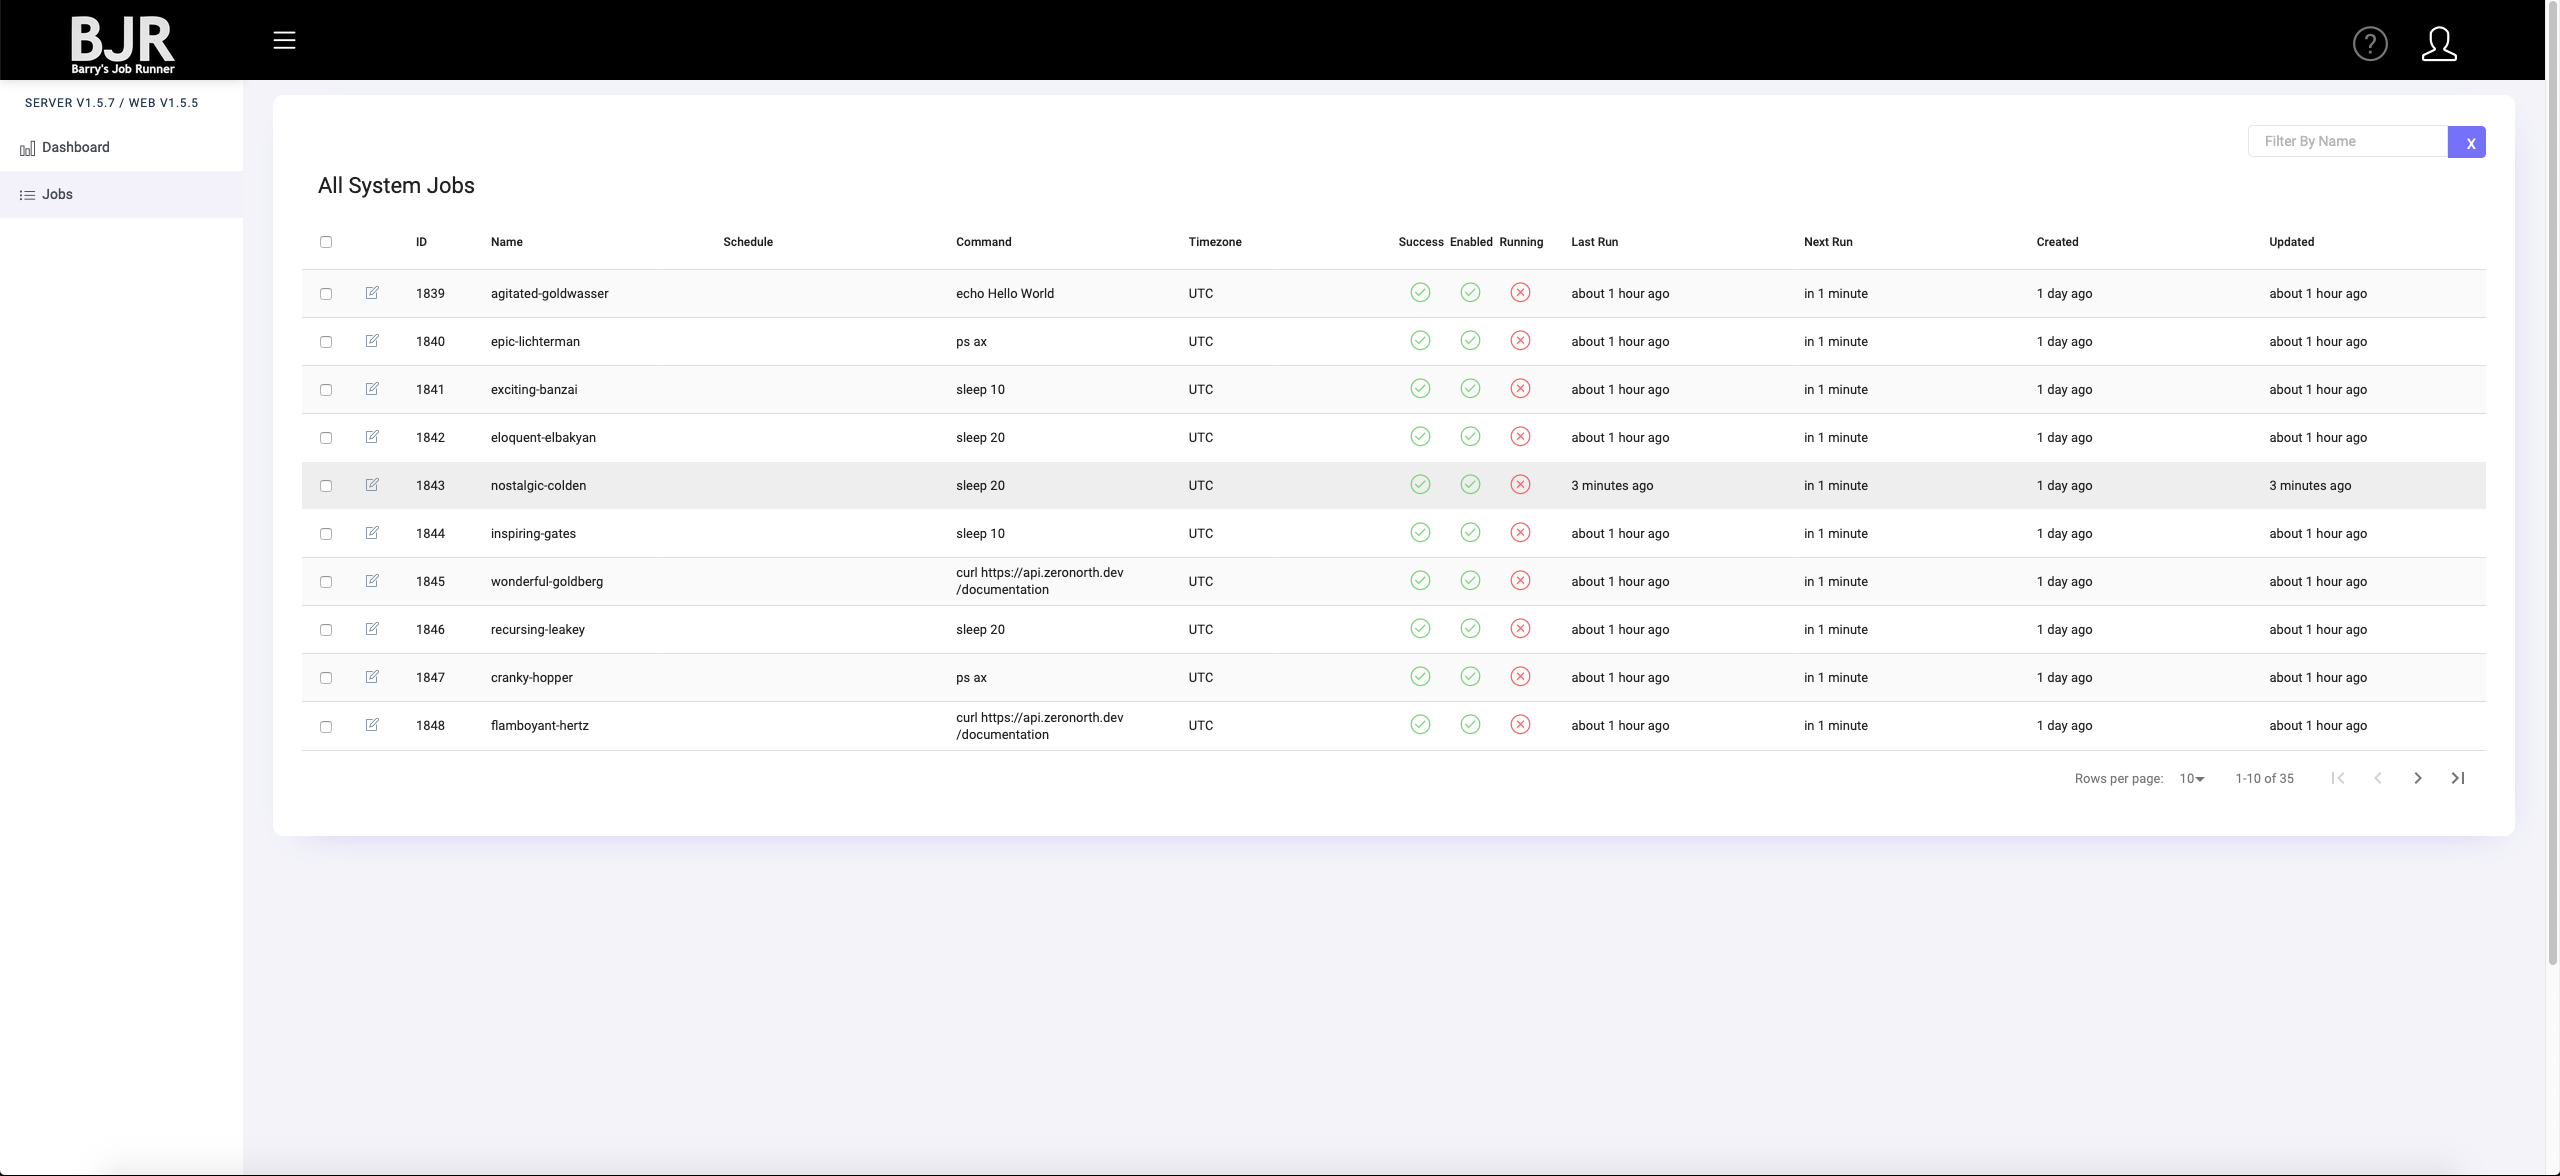
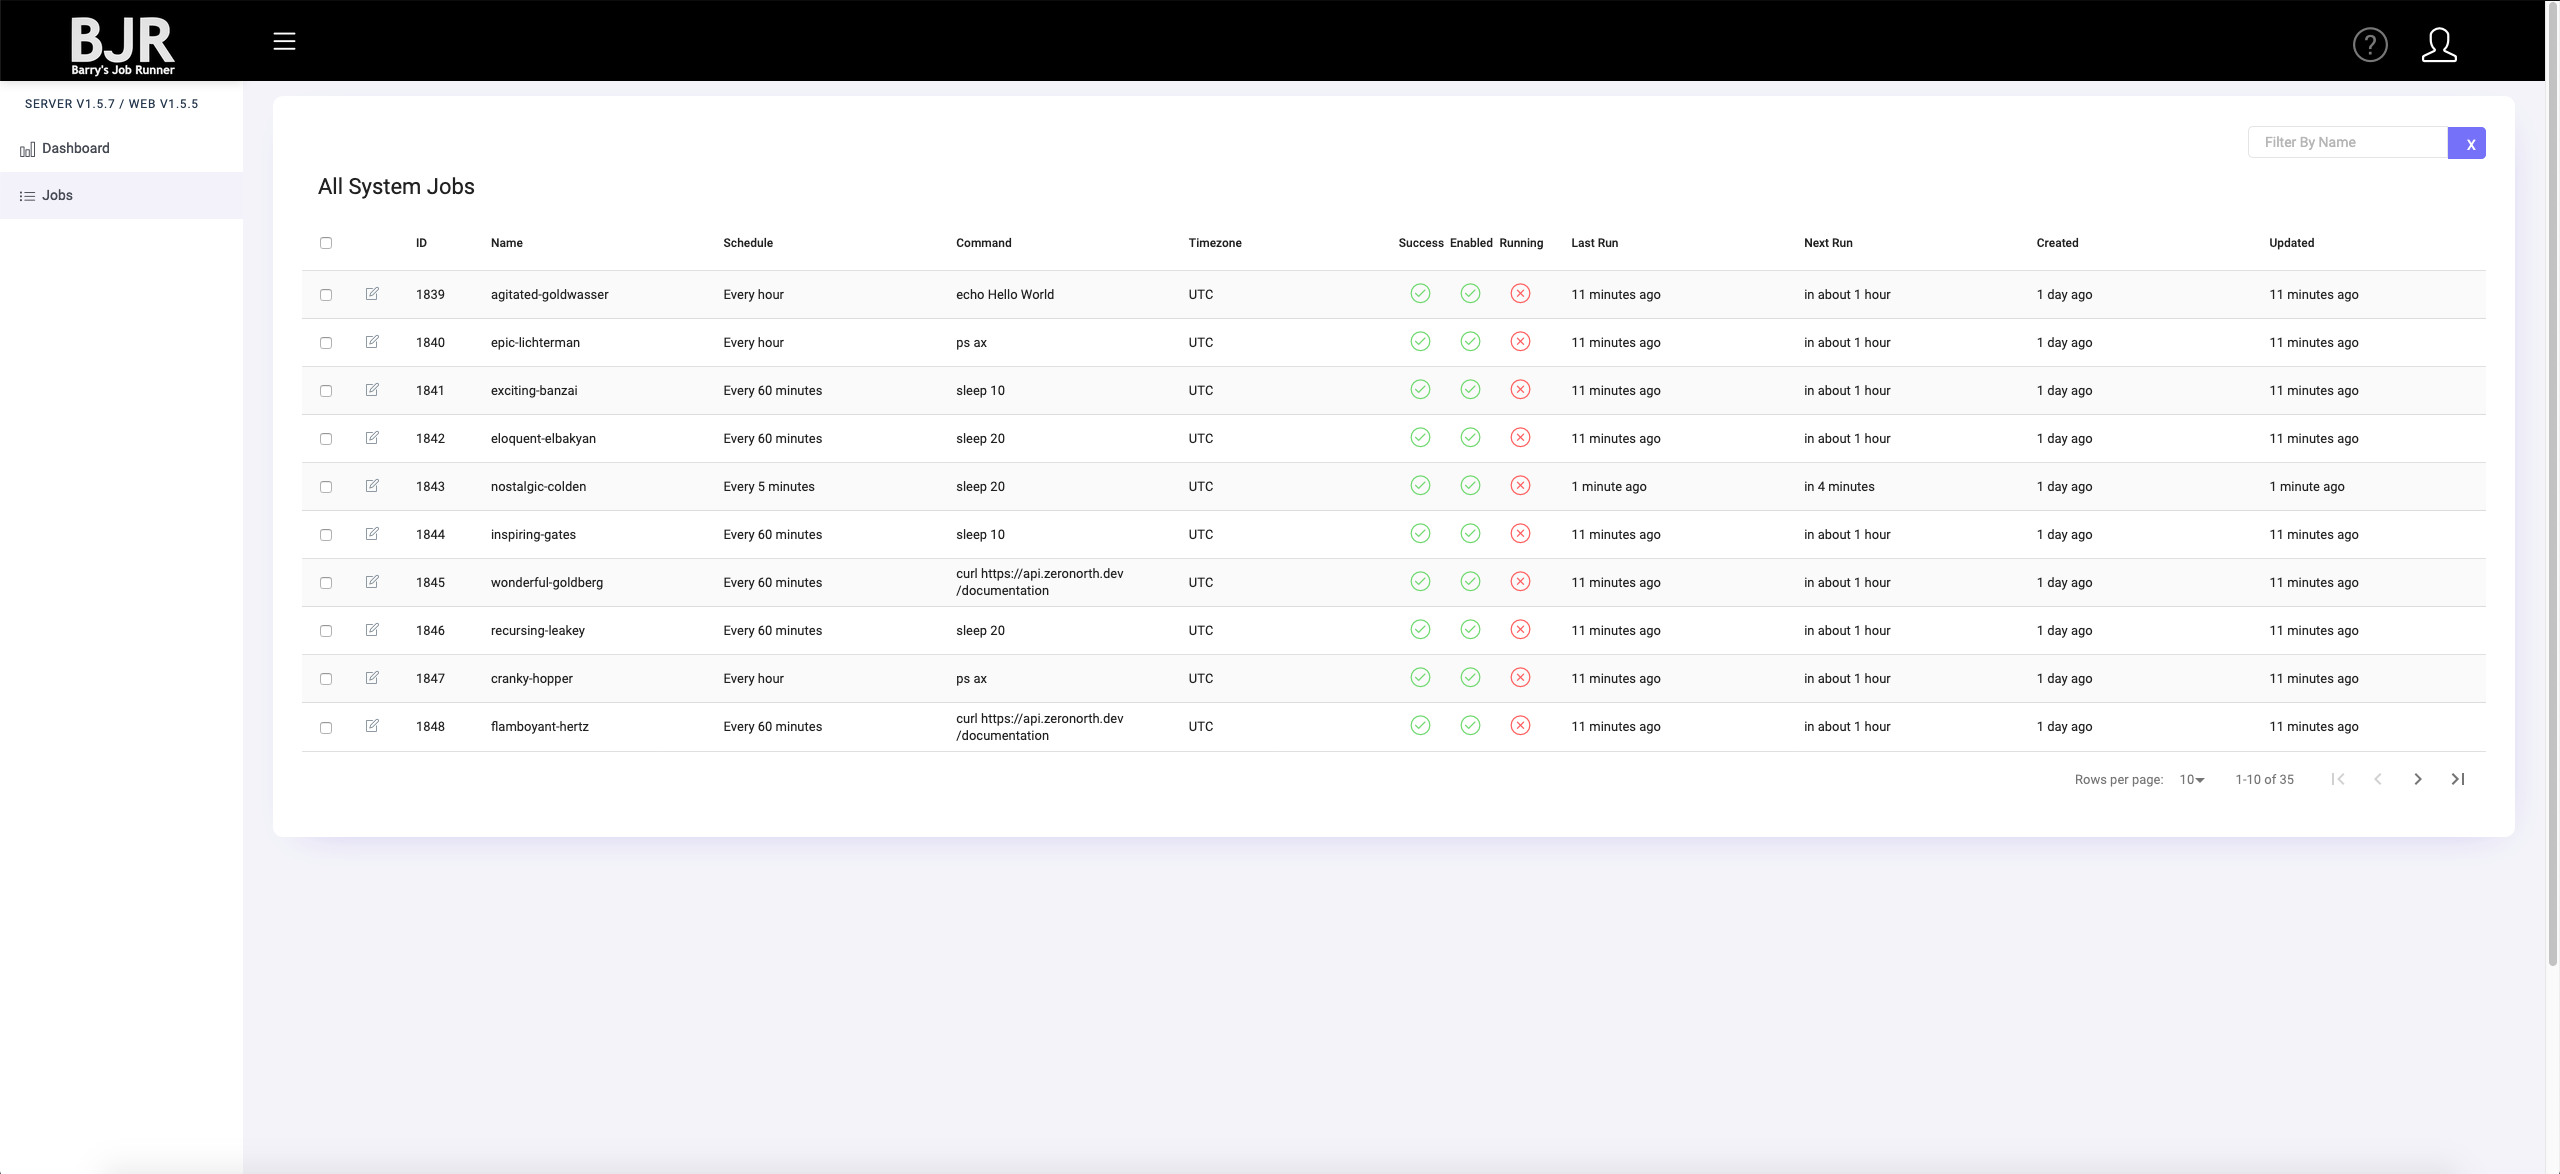
Fix broken schedule display

diff --git a/app/helpers/jobs_helper.rb b/app/helpers/jobs_helper.rb
@@ -32,7 +32,7 @@ module JobsHelper
   # Convert our cryptic cron expressions into plain english for display in the job table
   #
   def cron_to_english(cron, timezone)
-    Cronex::ExpressionDescriptor.new(cron, {}, I18n.locale, timezone).description
+    Cronex::ExpressionDescriptor.new(cron, locale: I18n.locale, timezone: timezone).description
   rescue
     ''
   end
